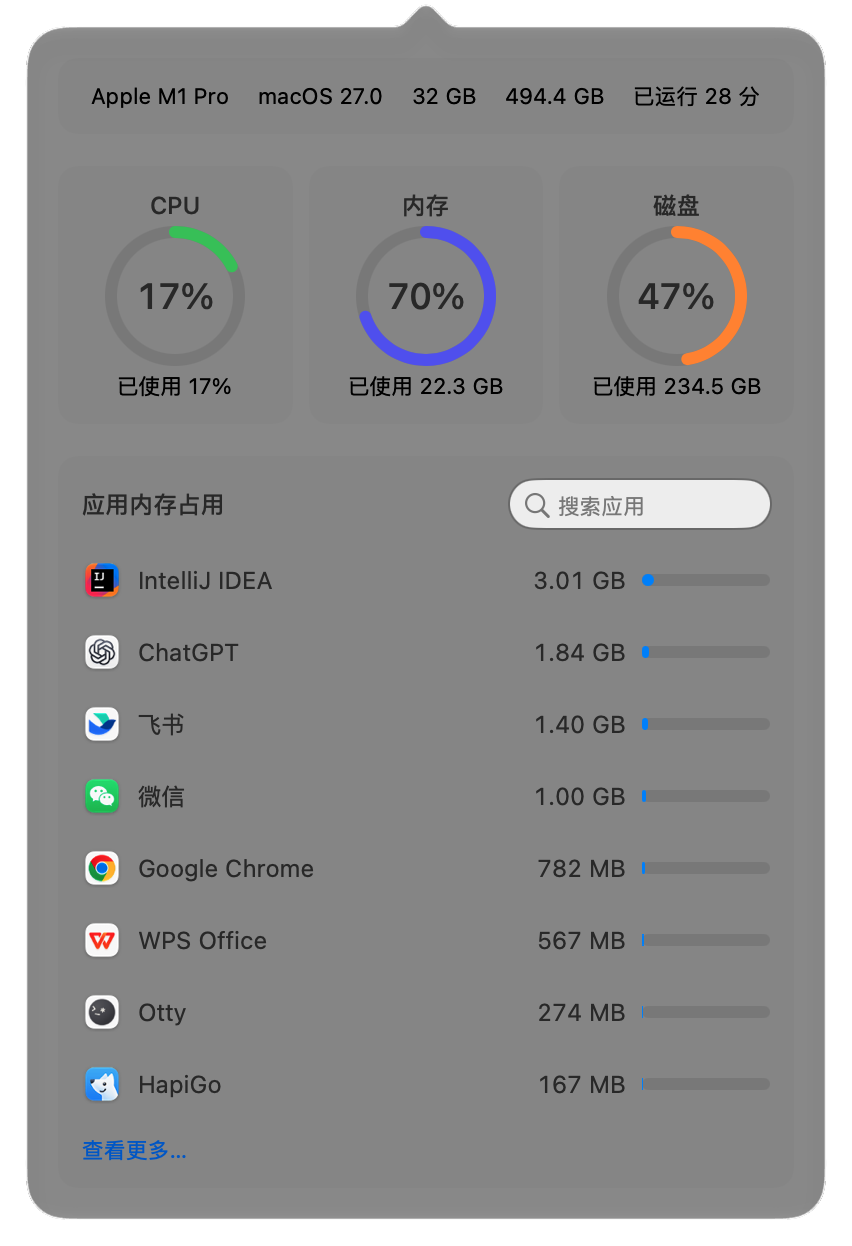
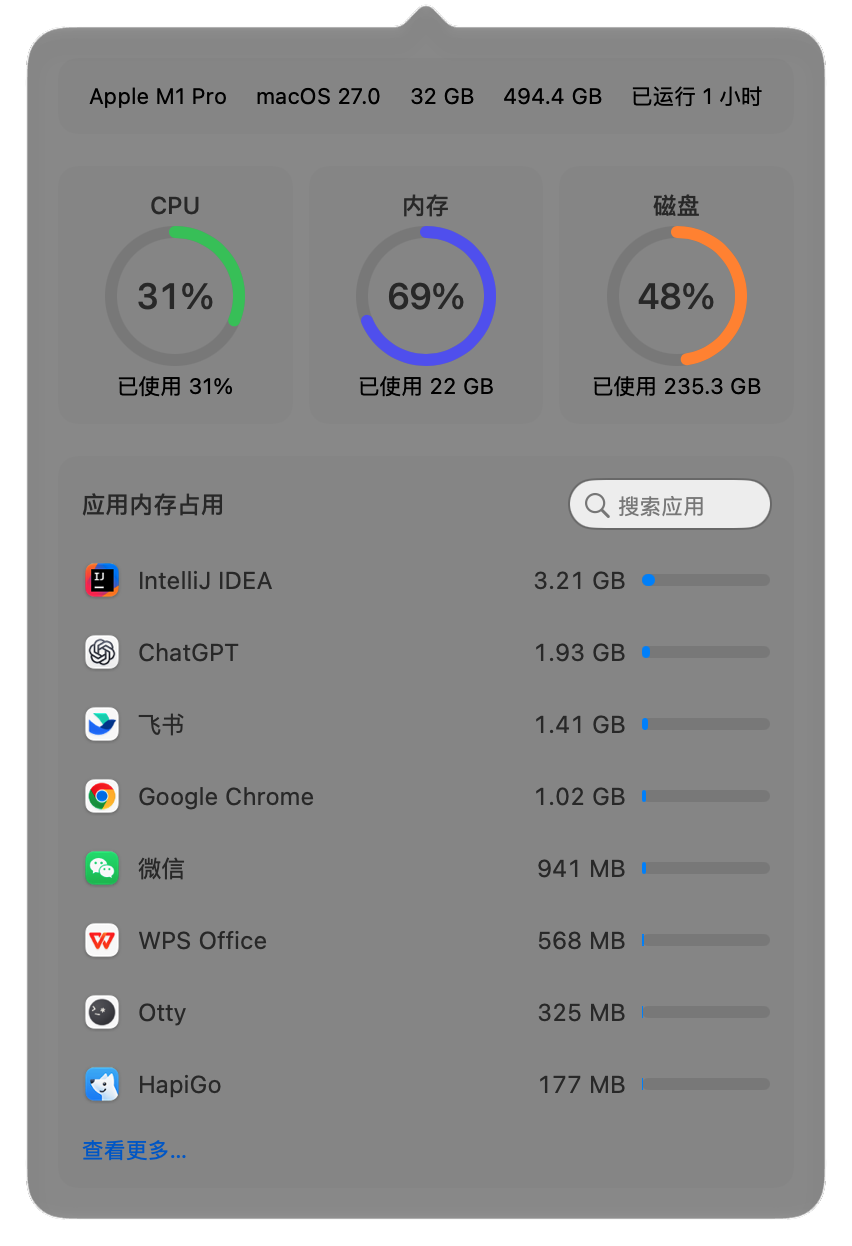
Show version in context menu, drop ellipsis, narrow search field; release 1.3

diff --git a/CalMon/App/MenuBarController.swift b/CalMon/App/MenuBarController.swift
@@ -328,7 +328,13 @@ final class MenuBarController: NSObject, NSPopoverDelegate, NSWindowDelegate {
     private func showContextMenu(for item: NSStatusItem?) {
         guard let item else { return }
         let menu = NSMenu()
-        let settings = NSMenuItem(title: "偏好设置…", action: #selector(openSettingsAction), keyEquivalent: "")
+        // Version info only lives here, nowhere else in the UI.
+        let version = Bundle.main.infoDictionary?["CFBundleShortVersionString"] as? String ?? "?"
+        let versionItem = NSMenuItem(title: "CalMon \(version)", action: nil, keyEquivalent: "")
+        versionItem.isEnabled = false
+        menu.addItem(versionItem)
+        menu.addItem(.separator())
+        let settings = NSMenuItem(title: "偏好设置", action: #selector(openSettingsAction), keyEquivalent: "")
         settings.target = self
         menu.addItem(settings)
         menu.addItem(.separator())

diff --git a/CalMon/App/CalMonApp.swift b/CalMon/App/CalMonApp.swift
@@ -68,7 +68,7 @@ final class CalMonApp: NSObject, NSApplicationDelegate {
         let appMenu = NSMenu()
         appMenu.addItem(withTitle: "关于 CalMon", action: #selector(NSApplication.orderFrontStandardAboutPanel(_:)), keyEquivalent: "")
         appMenu.addItem(.separator())
-        let settingsItem = NSMenuItem(title: "偏好设置…", action: #selector(openSettingsFromMenu), keyEquivalent: ",")
+        let settingsItem = NSMenuItem(title: "偏好设置", action: #selector(openSettingsFromMenu), keyEquivalent: ",")
         settingsItem.target = self
         appMenu.addItem(settingsItem)
         appMenu.addItem(.separator())

diff --git a/CalMon/App/UIStyle.swift b/CalMon/App/UIStyle.swift
@@ -51,7 +51,7 @@ enum UIStyle {
 
         static let ringDiameter: CGFloat = 64
         static let ringLineWidth: CGFloat = 6
-        static let searchFieldWidth: CGFloat = 130
+        static let searchFieldWidth: CGFloat = 100
         static let applicationRowHeight: CGFloat = 36
         static let applicationIcon: CGFloat = 20
         static let applicationBarWidth: CGFloat = 64

diff --git a/docs/validation/BUILD.md b/docs/validation/BUILD.md
@@ -27,7 +27,7 @@
 - 共享 scheme：`CalMon`（`CalMon.xcodeproj/xcshareddata/xcschemes/CalMon.xcscheme`），包含 `CalMon` 与 `CalMonTests`。
 - 关键构建设置：
   - `GENERATE_INFOPLIST_FILE = YES`，`INFOPLIST_KEY_LSUIElement = YES`
-  - `PRODUCT_BUNDLE_IDENTIFIER = com.calmon.CalMon`，`MARKETING_VERSION = 1.2`，`CURRENT_PROJECT_VERSION = 3`
+  - `PRODUCT_BUNDLE_IDENTIFIER = com.calmon.CalMon`，`MARKETING_VERSION = 1.3`，`CURRENT_PROJECT_VERSION = 4`
   - `MACOSX_DEPLOYMENT_TARGET = 27.0`，`SWIFT_VERSION = 5.0`，`SWIFT_STRICT_CONCURRENCY = minimal`
   - Debug：`ENABLE_HARDENED_RUNTIME = NO`；Release：`ENABLE_HARDENED_RUNTIME = YES`
   - 签名：`CODE_SIGN_STYLE = Manual`，`CODE_SIGN_IDENTITY = "-"`（ad-hoc）；entitlement 声明 `com.apple.security.app-sandbox = false` 与 `com.apple.security.personal-information.calendars = true`（Hardened Runtime 下访问日历所需）。
@@ -97,7 +97,7 @@ CALMON_CAPTURE=monitoring        build/Build/Products/Release/CalMon.app/Content
 
 ## 6. 产物核验
 
-- `build/Build/Products/Release/CalMon.app/Contents/Info.plist`：`LSUIElement = true`、`CFBundleIdentifier = com.calmon.CalMon`、`CFBundleIconName = AppIcon`、`CFBundleShortVersionString = 1.2`、`LSMinimumSystemVersion = 27.0`。
+- `build/Build/Products/Release/CalMon.app/Contents/Info.plist`：`LSUIElement = true`、`CFBundleIdentifier = com.calmon.CalMon`、`CFBundleIconName = AppIcon`、`CFBundleShortVersionString = 1.3`、`LSMinimumSystemVersion = 27.0`。
 - `Contents/Resources/` 仅含：`AppIcon.icns`、`Assets.car`、`2025/2026/2027.json`（节气）、`PrivacyInfo.xcprivacy`。不再包含 `CN-*.json`（内置节假日已移除）。没有 `docs/`、原型图或验收日志。
 - `codesign -dv`：ad-hoc 签名，`flags=0x10002(adhoc,runtime)`，Release 启用 Hardened Runtime。
 - `lipo -archs`：`arm64`。
